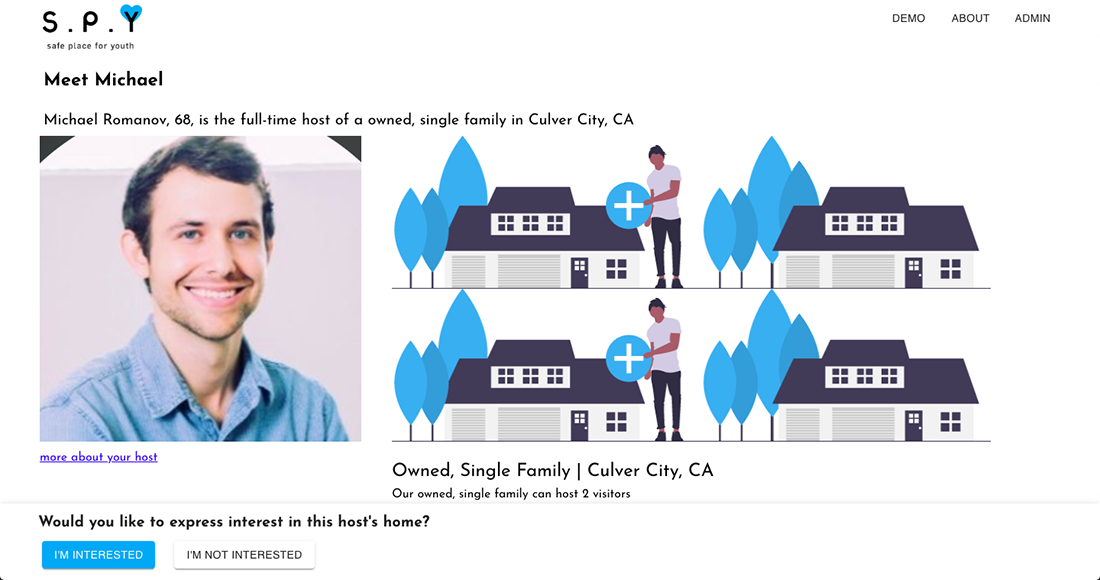
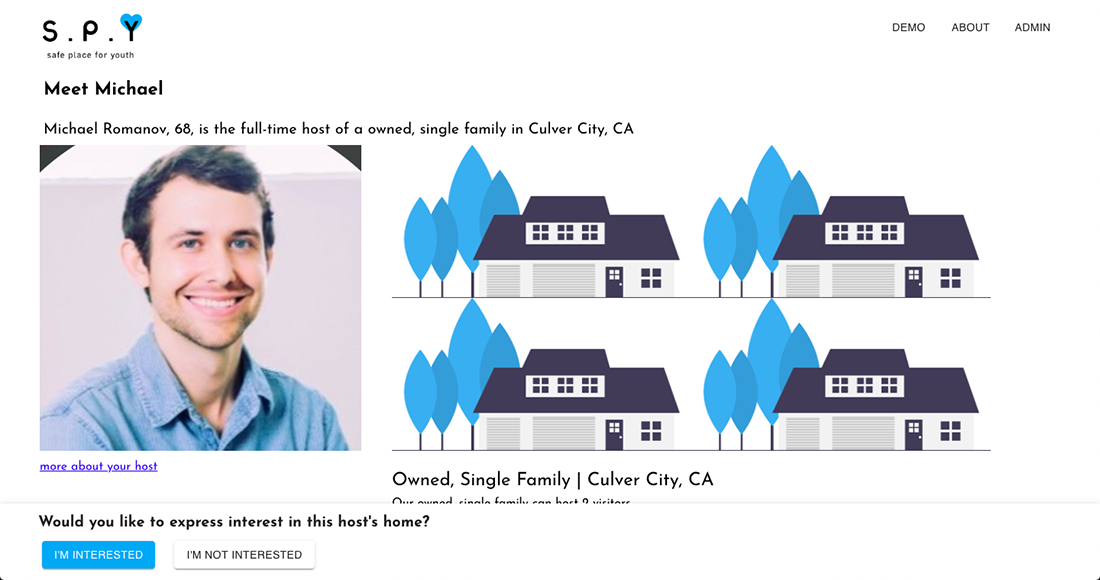
finishes final changes to website before demo

diff --git a/app/src/data/data-context.tsx b/app/src/data/data-context.tsx
@@ -255,7 +255,7 @@ const initialState: HostHomeData = {
       petsText: "I have no pets and would love to live with pets.",
       drinkingText:
         "I don't drink alcohol, but I'm open to other people in the household drinking alcohol.",
-      smokingText: "I don't smoke,  with others smoking indoors.",
+      smokingText: "I don't smoke, but I'm fine with others smoking indoors.",
       numberOfGuests: 1,
       substancesText:
         "I don't use substances and prefer a substance-free environment.",
@@ -392,7 +392,7 @@ const initialState: HostHomeData = {
       petsText: "I have pet(s), and would love to live with more pets.",
       drinkingText:
         "I don't drink alcohol, but I'm open to other people in the household drinking alcohol.",
-      smokingText: "I don't smoke,  with others smoking indoors.",
+      smokingText: "I don't smoke, but I'm fine with others smoking indoors.",
       numberOfGuests: 1,
       substancesText:
         "I don't use substances and prefer a substance-free environment.",
@@ -475,7 +475,7 @@ const initialState: HostHomeData = {
       petsText: "I have no pets and would love to live with pets.",
       drinkingText:
         "I don't drink alcohol, but I'm open to other people in the household drinking alcohol.",
-      smokingText: "I don't smoke,  with others smoking indoors.",
+      smokingText: "I don't smoke, but I'm fine with others smoking indoors.",
       numberOfGuests: 1,
       substancesText:
         "I don't use substances, but I'm open to other people in the household using substances.",
@@ -557,7 +557,7 @@ const initialState: HostHomeData = {
       petsText: "I have no pets and would love to live with pets.",
       drinkingText:
         "I don't drink alcohol and prefer an alcohol-free environment. I have concerns about my drinking: System worry can since thank.",
-      smokingText: "I don't smoke,  with others smoking indoors.",
+      smokingText: "I don't smoke, but I'm fine with others smoking indoors.",
       numberOfGuests: 1,
       substancesText:
         "I don't use substances, but I'm open to other people in the household using substances. I have concerns about my substance use: Kid gun finish clearly.",
@@ -694,7 +694,7 @@ const initialState: HostHomeData = {
       petsText: "I have no pets and would love to live with pets.",
       drinkingText:
         "I drink alcohol, and I'm open to other people in the household drinking alcohol.",
-      smokingText: "I don't smoke,  with others smoking indoors.",
+      smokingText: "I don't smoke, but I'm fine with others smoking indoors.",
       numberOfGuests: 1,
       substancesText:
         "I don't use substances, but I'm open to other people in the household using substances.",
@@ -749,7 +749,7 @@ const initialState: HostHomeData = {
       petsText: "I have no pets and prefer to live in a pet free place.",
       drinkingText:
         "I drink alcohol, and I'm open to other people in the household drinking alcohol.",
-      smokingText: "I don't smoke,  with others smoking indoors.",
+      smokingText: "I don't smoke, but I'm fine with others smoking indoors.",
       numberOfGuests: 1,
       substancesText:
         "I don't use substances, but I'm open to other people in the household using substances.",
@@ -859,7 +859,7 @@ const initialState: HostHomeData = {
       petsText: "I have no pets and would love to live with pets.",
       drinkingText:
         "I don't drink alcohol, but I'm open to other people in the household drinking alcohol.",
-      smokingText: "I don't smoke,  with others smoking indoors.",
+      smokingText: "I don't smoke, but I'm fine with others smoking indoors.",
       numberOfGuests: 1,
       substancesText:
         "I use substances, and I'm open to other people in the household using substances.",
@@ -1054,7 +1054,7 @@ const initialState: HostHomeData = {
       petsText: "I have no pets and would love to live with pets.",
       drinkingText:
         "I drink alcohol, and I'm open to other people in the household drinking alcohol.",
-      smokingText: "I don't smoke,  with others smoking indoors.",
+      smokingText: "I don't smoke, but I'm fine with others smoking indoors.",
       numberOfGuests: 2,
       substancesText:
         "I use substances, and I'm open to other people in the household using substances.",
@@ -1221,7 +1221,7 @@ const initialState: HostHomeData = {
       petsText: "I have pet(s), and would love to live with more pets.",
       drinkingText:
         "I don't drink alcohol and prefer an alcohol-free environment.",
-      smokingText: "I don't smoke,  with others smoking indoors.",
+      smokingText: "I don't smoke, but I'm fine with others smoking indoors.",
       numberOfGuests: 1,
       substancesText:
         "I don't use substances, but I'm open to other people in the household using substances.",
@@ -1303,7 +1303,7 @@ const initialState: HostHomeData = {
       petsText: "I have pet(s), and would love to live with more pets.",
       drinkingText:
         "I drink alcohol, and I'm open to other people in the household drinking alcohol.",
-      smokingText: "I don't smoke,  with others smoking indoors.",
+      smokingText: "I don't smoke, but I'm fine with others smoking indoors.",
       numberOfGuests: 1,
       substancesText:
         "I don't use substances, but I'm open to other people in the household using substances.",
@@ -1386,7 +1386,7 @@ const initialState: HostHomeData = {
       petsText: "I have no pets and would love to live with pets.",
       drinkingText:
         "I drink alcohol, and I'm open to other people in the household drinking alcohol.",
-      smokingText: "I don't smoke,  with others smoking indoors.",
+      smokingText: "I don't smoke, but I'm fine with others smoking indoors.",
       numberOfGuests: 2,
       substancesText:
         "I don't use substances, but I'm open to other people in the household using substances.",
@@ -1607,7 +1607,7 @@ const initialState: HostHomeData = {
       petsText: "I have no pets and would love to live with pets.",
       drinkingText:
         "I don't drink alcohol, but I'm open to other people in the household drinking alcohol.",
-      smokingText: "I don't smoke,  with others smoking indoors.",
+      smokingText: "I don't smoke, but I'm fine with others smoking indoors.",
       numberOfGuests: 2,
       substancesText:
         "I don't use substances, but I'm open to other people in the household using substances.",
@@ -1690,7 +1690,7 @@ const initialState: HostHomeData = {
       petsText: "I have pet(s), and would love to live with more pets.",
       drinkingText:
         "I don't drink alcohol, but I'm open to other people in the household drinking alcohol. I have concerns about my drinking: Relationship beautiful news.",
-      smokingText: "I don't smoke,  with others smoking indoors.",
+      smokingText: "I don't smoke, but I'm fine with others smoking indoors.",
       numberOfGuests: 1,
       substancesText:
         "I don't use substances and prefer a substance-free environment.",
@@ -1717,7 +1717,7 @@ const initialState: HostHomeData = {
       petsText: "I have no pets and would love to live with pets.",
       drinkingText:
         "I don't drink alcohol, but I'm open to other people in the household drinking alcohol.",
-      smokingText: "I don't smoke,  with others smoking indoors.",
+      smokingText: "I don't smoke, but I'm fine with others smoking indoors.",
       numberOfGuests: 1,
       substancesText:
         "I don't use substances, but I'm open to other people in the household using substances.",
@@ -1744,7 +1744,7 @@ const initialState: HostHomeData = {
       petsText: "I have no pets and would love to live with pets.",
       drinkingText:
         "I drink alcohol, and I'm open to other people in the household drinking alcohol.",
-      smokingText: "I don't smoke,  with others smoking indoors.",
+      smokingText: "I don't smoke, but I'm fine with others smoking indoors.",
       numberOfGuests: 1,
       substancesText:
         "I don't use substances and prefer a substance-free environment.",
@@ -1994,7 +1994,7 @@ const initialState: HostHomeData = {
       petsText: "I have no pets and prefer to live in a pet free place.",
       drinkingText:
         "I drink alcohol, and I'm open to other people in the household drinking alcohol.",
-      smokingText: "I don't smoke,  with others smoking indoors.",
+      smokingText: "I don't smoke, but I'm fine with others smoking indoors.",
       numberOfGuests: 2,
       substancesText:
         "I use substances, but I'm not open to other people in the household using substances.",
@@ -2076,7 +2076,7 @@ const initialState: HostHomeData = {
       petsText: "I have pet(s), and would love to live with more pets.",
       drinkingText:
         "I don't drink alcohol, but I'm open to other people in the household drinking alcohol.",
-      smokingText: "I don't smoke,  with others smoking indoors.",
+      smokingText: "I don't smoke, but I'm fine with others smoking indoors.",
       numberOfGuests: 1,
       substancesText:
         "I don't use substances and prefer a substance-free environment.",
@@ -2184,7 +2184,7 @@ const initialState: HostHomeData = {
       petsText: "I have pet(s), and would love to live with more pets.",
       drinkingText:
         "I drink alcohol, and I'm open to other people in the household drinking alcohol.",
-      smokingText: "I don't smoke,  with others smoking indoors.",
+      smokingText: "I don't smoke, but I'm fine with others smoking indoors.",
       numberOfGuests: 1,
       substancesText:
         "I don't use substances, but I'm open to other people in the household using substances.",
@@ -2239,7 +2239,7 @@ const initialState: HostHomeData = {
       petsText: "I have pet(s), and would love to live with more pets.",
       drinkingText:
         "I don't drink alcohol, but I'm open to other people in the household drinking alcohol.",
-      smokingText: "I don't smoke,  with others smoking indoors.",
+      smokingText: "I don't smoke, but I'm fine with others smoking indoors.",
       numberOfGuests: 1,
       substancesText:
         "I use substances, and I'm open to other people in the household using substances.",
@@ -2265,7 +2265,7 @@ const initialState: HostHomeData = {
       petsText: "I have pet(s), and would love to live with more pets.",
       drinkingText:
         "I drink alcohol, and I'm open to other people in the household drinking alcohol.",
-      smokingText: "I don't smoke,  with others smoking indoors.",
+      smokingText: "I don't smoke, but I'm fine with others smoking indoors.",
       numberOfGuests: 1,
       substancesText:
         "I don't use substances and prefer a substance-free environment.",
@@ -2459,7 +2459,7 @@ const initialState: HostHomeData = {
       petsText: "I have no pets and would love to live with pets.",
       drinkingText:
         "I drink alcohol, and I'm open to other people in the household drinking alcohol.",
-      smokingText: "I don't smoke,  with others smoking indoors.",
+      smokingText: "I don't smoke, but I'm fine with others smoking indoors.",
       numberOfGuests: 1,
       substancesText:
         "I don't use substances, but I'm open to other people in the household using substances.",
@@ -2486,7 +2486,7 @@ const initialState: HostHomeData = {
       petsText: "I have no pets and prefer to live in a pet free place.",
       drinkingText:
         "I drink alcohol, and I'm open to other people in the household drinking alcohol. I have concerns about my drinking: Line standard party water successful.",
-      smokingText: "I don't smoke,  with others smoking indoors.",
+      smokingText: "I don't smoke, but I'm fine with others smoking indoors.",
       numberOfGuests: 1,
       substancesText:
         "I don't use substances, but I'm open to other people in the household using substances. I have concerns about my substance use: Point main husband anyone.",
@@ -2513,7 +2513,7 @@ const initialState: HostHomeData = {
       petsText: "I have no pets and would love to live with pets.",
       drinkingText:
         "I drink alcohol, but I'm not open to other people in the household drinking alcohol.",
-      smokingText: "I don't smoke,  with others smoking indoors.",
+      smokingText: "I don't smoke, but I'm fine with others smoking indoors.",
       numberOfGuests: 1,
       substancesText:
         "I don't use substances, but I'm open to other people in the household using substances.",
@@ -2763,7 +2763,7 @@ const initialState: HostHomeData = {
       petsText: "I have no pets and would love to live with pets.",
       drinkingText:
         "I don't drink alcohol, but I'm open to other people in the household drinking alcohol.",
-      smokingText: "I don't smoke,  with others smoking indoors.",
+      smokingText: "I don't smoke, but I'm fine with others smoking indoors.",
       numberOfGuests: 2,
       substancesText:
         "I use substances, and I'm open to other people in the household using substances. I have concerns about my substance use: Nature become action station grow.",
@@ -2790,7 +2790,7 @@ const initialState: HostHomeData = {
       petsText: "I have no pets and prefer to live in a pet free place.",
       drinkingText:
         "I drink alcohol, but I'm not open to other people in the household drinking alcohol.",
-      smokingText: "I don't smoke,  with others smoking indoors.",
+      smokingText: "I don't smoke, but I'm fine with others smoking indoors.",
       numberOfGuests: 1,
       substancesText:
         "I use substances, and I'm open to other people in the household using substances.",
@@ -2817,7 +2817,7 @@ const initialState: HostHomeData = {
       petsText: "I have no pets and would love to live with pets.",
       drinkingText:
         "I don't drink alcohol, but I'm open to other people in the household drinking alcohol.",
-      smokingText: "I don't smoke,  with others smoking indoors.",
+      smokingText: "I don't smoke, but I'm fine with others smoking indoors.",
       numberOfGuests: 2,
       substancesText:
         "I don't use substances and prefer a substance-free environment.",

diff --git a/app/src/components/GuestProfile/GuestPolicies.tsx b/app/src/components/GuestProfile/GuestPolicies.tsx
@@ -64,7 +64,14 @@ const GuestPolicies = ({ guest }: Props) => {
           <Grid item xs alignContent="center" alignItems="center">
             <div className={classes.holder}>
               <img
-                src={"/hosthome/img/pets.png"}
+                src={
+                  guest.petsText ===
+                    "I have no pets and would love to live with pets." ||
+                  guest.petsText ===
+                    "I have pet(s), and would love to live with more pets."
+                    ? "/hosthome/img/pets.png"
+                    : "/hosthome/img/petsNo.png"
+                }
                 alt={"Pets Policy"}
                 width={"100px"}
                 className={classes.image}
@@ -75,7 +82,14 @@ const GuestPolicies = ({ guest }: Props) => {
           <Grid item xs alignContent="center" alignItems="center">
             <div className={classes.holder}>
               <img
-                src={"/hosthome/img/smoke.png"}
+                src={
+                  guest.smokingText ===
+                    "I smoke cigerettes, but I prefer a smoke free environment indoors." ||
+                  guest.smokingText ===
+                    "I do not smoke cigerettes, and I prefer a smoke-free environment indoors."
+                    ? "/hosthome/img/smoke.png"
+                    : "/hosthome/img/doSmoke.png"
+                }
                 alt={"Smoke Policy"}
                 width={"100px"}
                 className={classes.image}
@@ -88,7 +102,15 @@ const GuestPolicies = ({ guest }: Props) => {
           <Grid item xs alignContent="center" alignItems="center">
             <div className={classes.holder}>
               <img
-                src={"/hosthome/img/alcohol.png"}
+                src={
+                  guest.drinkingText ===
+                    "I drink alcohol, and I'm open to other people in the household drinking alcohol." ||
+                  guest.drinkingText.startsWith(
+                    "I don't drink alcohol, but I'm open to other people in the household drinking alcohol."
+                  )
+                    ? "/hosthome/img/alcohol.png"
+                    : "/hosthome/img/alcoholNo.png"
+                }
                 alt={"Alcohol Policy"}
                 width={"100px"}
                 className={classes.image}
@@ -99,7 +121,15 @@ const GuestPolicies = ({ guest }: Props) => {
           <Grid item xs alignContent="center" alignItems="center">
             <div className={classes.holder}>
               <img
-                src={"/hosthome/img/meds.png"}
+                src={
+                  guest.substancesText ===
+                    "I use substances, and I'm open to other people in the household using substances." ||
+                  guest.substancesText.startsWith(
+                    "I don't use substances, but I'm open to other people in the household using substances."
+                  )
+                    ? "/hosthome/img/meds.png"
+                    : "/hosthome/img/medsNo.png"
+                }
                 alt={"Meds Policy"}
                 width={"100px"}
                 className={classes.image}

diff --git a/app/src/components/HostProfile/HousePolicies.tsx b/app/src/components/HostProfile/HousePolicies.tsx
@@ -79,7 +79,11 @@ export const HousePolicies = ({ host }: IHousePoliciesProps) => {
 
   let policies = [
     {
-      icon: "/hosthome/img/pets.png",
+      icon:
+        host.petsText === "Our pet(s) only need new human friends." ||
+        host.petsText === "We provide a pet free environment."
+          ? "/hosthome/img/petsNo.png"
+          : "/hosthome/img/pets.png",
       content: host.petsText
     },
     {
@@ -88,24 +92,32 @@ export const HousePolicies = ({ host }: IHousePoliciesProps) => {
         host.smokingText ===
           "We don't smoke, but we're ok with others smoking in the house." ||
         host.smokingText ===
-          "I don't smoke, but I'm find with others smoking indoors." ||
-        host.smokingText ===
           "I don't smoke, but I'm fine with others smoking indoors."
           ? "/hosthome/img/doSmoke.png"
           : "/hosthome/img/smoke.png",
       content: host.smokingText
     },
     {
-      icon: "/hosthome/img/alcohol.png",
+      icon:
+        host.drinkingText === "No one in the house drinks alcohol."
+          ? "/hosthome/img/alcoholNo.png"
+          : "/hosthome/img/alcohol.png",
       content: host.drinkingText
     },
     {
-      icon: "/hosthome/img/meds.png",
+      icon:
+        host.substancesText === "We use substances."
+          ? "/hosthome/img/meds.png"
+          : "/hosthome/img/medsNo.png",
       content: host.substancesText
     },
     {
-      icon: "/hosthome/img/baby.png",
-      content: "We welcome parents."
+      icon: host.youthParenting
+        ? "/hosthome/img/baby.png"
+        : "/hosthome/img/babyNo.png",
+      content: host.youthParenting
+        ? "We welcome parents."
+        : "We do not welcome parents."
     }
   ]
 
